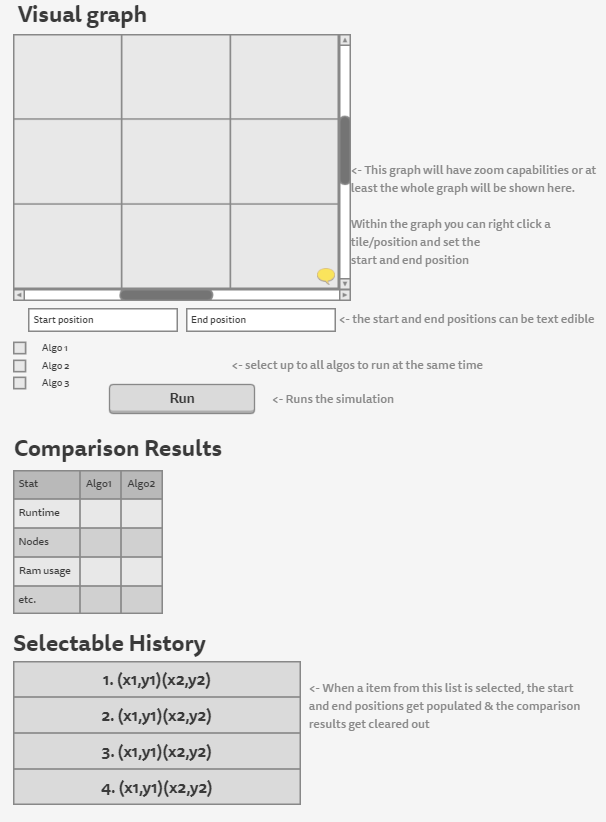
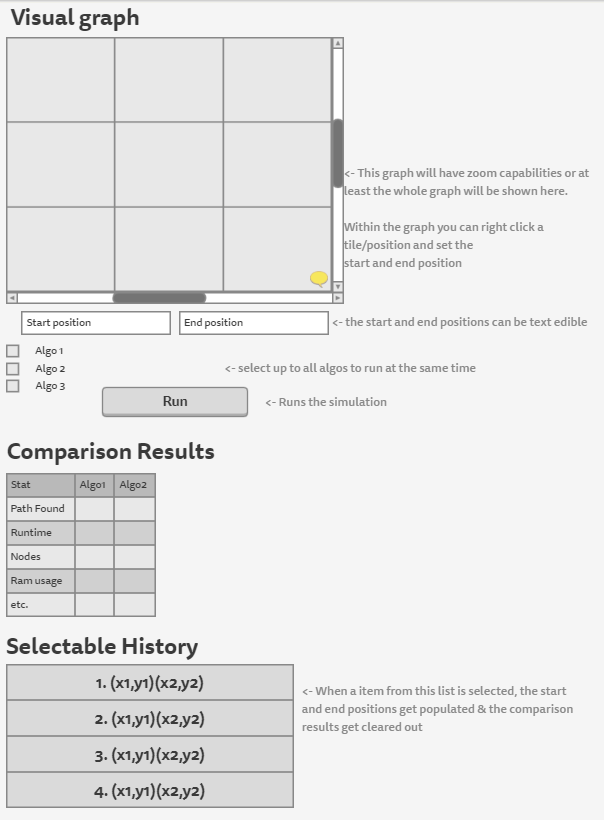
Updating adding sequence diagrams, and mockup graph

Changed region(s): [[0.0, 0.0, 0.9834, 1.0]]

diff --git a/Homeworks/Project/listings-setup.tex b/Homeworks/Project/listings-setup.tex
@@ -1,0 +1,25 @@
+% Contents of listings-setup.tex
+\usepackage{xcolor}
+
+\lstset{
+    basicstyle=\ttfamily,
+    numbers=left,
+    keywordstyle=\color[rgb]{0.13,0.29,0.53}\bfseries,
+    stringstyle=\color[rgb]{0.31,0.60,0.02},
+    commentstyle=\color[rgb]{0.56,0.35,0.01}\itshape,
+    numberstyle=\footnotesize,
+    stepnumber=1,
+    numbersep=5pt,
+    backgroundcolor=\color[RGB]{248,248,248},
+    showspaces=false,
+    showstringspaces=false,
+    showtabs=false,
+    tabsize=2,
+    captionpos=b,
+    breaklines=true,
+    breakatwhitespace=true,
+    breakautoindent=true,
+    escapeinside={\%*}{*)},
+    linewidth=\textwidth,
+    basewidth=0.5em,
+}

diff --git a/Homeworks/Project/report.md b/Homeworks/Project/report.md
@@ -24,6 +24,7 @@ header-includes: |
 # Functional Specification  
 # Description
 This application will dive into the different types of path finding algorithms games use in order to come up with the generated path when a character or player selects a destination position. This project will have a visual progression of the algorithms so that a human can see how well they preform between each other. I would like to evaluate different situations to find positives and negatives between the algorithms such as best case and worst-case scenarios. Statistic analysis will also be done to evaluate how well they rank between each other.
+
 ## List of things that this program will do
 - Visual graph representing at least 1 or more algorithms running over time
 - A way to view the results between the different algorithm
@@ -35,7 +36,9 @@ This will run on Windows 10 OS using Swing
 • Any game developers who want to consider different options for path finding.
 • Anyone who wants to understand how path finding algorithms work.
 # Application Requirements
+
 ### Functional Requirements
+
 1. **F.R-1**: The system shall generate a path given a start point, and end point, and the selected algorithm
 2. **F.R-2**: The system shall let the user know if a path is not possible to be created
 3. **F.R-3**: The system shall have the ability to clear the current paths 
@@ -46,6 +49,7 @@ This will run on Windows 10 OS using Swing
 8. **F.R-8**: The system shall find worst case scenario for each algorithm given the scenario
 
 ### UI Requirements
+
 1. **UI.R-1**: The UI shall be able to select a starting point and an end point
 2. **UI.R-2**: The UI shall have a button to start the simulation
 3. **UI.R-3**: The UI shall be able to see the algorithms behave over time where a human can visually see
@@ -54,11 +58,13 @@ This will run on Windows 10 OS using Swing
 6. **UI.R-6**: The UI shall have the ability to select which algorithms to use for the simulation
 
 # Use Cases
+
 ### UC-1: User selects a  path
 1. The user selects the start and end points and uses default algorithm
 2. The system computes the path generation
 3. The system displays a successful path
 ### UC-2: User selects a path
+
 #### Variation #1:  Invalid path
 1. After step 2 , the system displays the path could not be found 
 
@@ -69,6 +75,7 @@ This will run on Windows 10 OS using Swing
 4. The system displays a successful path
 
 ### UC-4: Computer generates path 
+
 #### Variation #1: Invalid path
 1. After step 2, the system displays that the path could not be found
 
@@ -95,7 +102,9 @@ This will run on Windows 10 OS using Swing
 Link: https://gomockingbird.com/projects/v95sylo/4gXVnC
 
 # Design Specification 
+
 ## CRC cards
+
 ### Tile
 - Responsibilities
 	- Coordinate on a map that is used to represent a node or a position
@@ -107,21 +116,12 @@ Link: https://gomockingbird.com/projects/v95sylo/4gXVnC
 - Collaborators
 	- Tile
 	- Algorithm
-	- AlgorithmAnalyzer
+	- AlgorithmController
 ### Algorithm 
 - Responsibilities
 	- Steps to find a path between a departure and destination position
 - Collaborators
-	- AlgorithmAnalyzer
-	- Path
-### AlgorithmAnalyzer
-- Responsibilities
-	- Simulator that runs the algorithms and collects the comparative results
-	- Keeps track of the tiles visited while going through the algorithm
-	- Keeps track of optimized path for each algorithm 
-	
-- Collaborators
-	- Algorithm
+	- AlgorithmController
 	- Path
 ### Grid 
 - Responsibilities
@@ -139,21 +139,32 @@ Link: https://gomockingbird.com/projects/v95sylo/4gXVnC
 - Collaborators
 	- Grid
 
+### AlgorithmController
+- Responsibilities
+	- Keeping track which algorithms are selected
+	- Running the simulations
+	- Keeps track of past history of the departure and destination tiles
+	- Simulator that runs the algorithms and collects the comparative results
+	- Keeps track of the tiles visited while going through the algorithm
+	- Keeps track of optimized path for each algorithm 
+- Collaborators
+	- GUI
+	- Grid
+	- Algorithm
 ### GUI 
+
 - Responsibilities
 	- Displaying the grid
 	- Displaying the start and end positions
 	- Selectable algorithms
-	- Running the simulations
 	- Displaying the comparison results of the different algorithms
-	- Selectable history of past start and end positions
-	- Keeps track of past history of the departure and destination tiles
+	- Selectable history of past start and end positions	
 - Collaborators
-	- Grid
-	- AlgorithmAnalyzer
-	- Algorithm
+	- AlgorithmController
 ## UML Diagrams
+
 ### Class diagram key
+
 ```mermaid
 classDiagram
 classA --|> classB : Inheritance
@@ -166,6 +177,7 @@ classM ..|> classN : Realization
 classO .. classP : Link(Dashed)
 ```
 ### Class diagrams
+
 ```mermaid
 classDiagram
 
@@ -179,17 +191,21 @@ Path: +getDeparture(): Tile
 Path: +getDestination(): Tile
 
 class Algorithm
+Algorithm: +name: String
+Algorithm: +visitedTiles: ArrayList<Tile>
 Algorithm: +computeOptimalPath(start: Tile, end: Tile): Path
-Algorithm: +getVisitedTiles(start: Tile, end: Tile): Path
-
-class AlgorithmAnalyzer
-AlgorithmAnalyzer: +algorithms: ArrayList<Algorithm>
-
-AlgorithmAnalyzer: +runSimulation(test:String)
+Algorithm: +getVisitedTiles(): ArrayList<Tile>
 
 
 class Color
 Color: +rgb: Int
+
+class AlgorithmStats
+AlgorithmStats: +algorithmName: String
+AlgorithmStats: +runtime: Long
+AlgorithmStats: +ramUsage: Long
+AlgorithmStats: +pathLength: Int
+AlgorithmStats: +visitedTiles: Int
 
 class GridTile
 GridTile: +color: Color
@@ -198,31 +214,156 @@ GridTile: +collisionFlag: Int
 
 class Grid
 Grid: +tiles: ArrayList<GridTile>
-
-Grid: +colorTile(tile: Tile, color: Color)
+Grid: +updateGrid(tiles: ArrayList<GridTile>)
+Grid: -colorTile(tile: Tile, color: Color)
 Grid: +clearGraph()
 
+class AlgorithmController
+AlgorithmController: +startPosition: Tile
+AlgorithmController: +endPosition: Tile
+AlgorithmController: +history: ArrayList<Tile[]>
+AlgorithmController: +enabledAlgorithms: ArrayList<Boolean>
+AlgorithmController: +gridData: Grid
+AlgorithmController: +latestAlgorithmStats: ArrayList<AlgorithmStats>
+AlgorithmController: +algorithms: ArrayList<Algorithm>
+AlgorithmController: +runSimulation(test:String)
+
+AlgorithmController: +setStartPosition(tile: Tile)
+AlgorithmController: +endStartPosition(tile: Tile)
 
 class GUI
-GUI: +history: ArrayList<Tile[]>
-GUI: +enabledAlgorithms: ArrayList<Boolean>
+GUI: +updateStartPosition(tile: Tile)
+GUI: +updateEndPosition(tile: Tile)
+GUI: +updateHistory(history: ArrayList<Tile[]>)
 GUI: +enableAlgorithm(algorithm: String)
+GUI: +refreshGrid(grid:Grid)
+GUI: +updateAlgoStats(stats: ArrayList<AlgorithmStats>)
 
-GUI *-- "1..1" Grid
+AlgorithmController *-- "1..1" Grid
 Grid *-- "1..*" GridTile
 GridTile --|> Tile : Inhertance
 GridTile o-- "1.1" Color
 
  
-AlgorithmAnalyzer *-- "1.*" Algorithm
+AlgorithmController *-- "1.*" Algorithm
 Algorithm ..> Path
 Path o-- "2..*" Tile
-GUI ..> AlgorithmAnalyzer
-
+AlgorithmController ..> GUI
+AlgorithmController *-- "1.*" AlgorithmStats
 ```
+
 ### Sequence Diagrams
 
+#### Path found
+```mermaid
+sequenceDiagram
+participant User
+participant GUI
+participant AlgorithmController
+participant Algorithm
+
+Note over User: Enter start position
+activate User
+User  ->>+ AlgorithmController : setStartPosition
+activate GUI
+AlgorithmController ->>- GUI : updateStartPosition
+
+Note over User: Enter end position
+deactivate GUI
+
+User ->>+ AlgorithmController : setEndPosition
+activate GUI
+AlgorithmController ->>- GUI : updateEndPosition
+
+Note over User: Click run button
+deactivate GUI
+User ->>+ AlgorithmController : runSimulationrect 
+AlgorithmController ->> Algorithm  : computeOptimalPath
+activate Algorithm
+deactivate Algorithm
+AlgorithmController ->> Algorithm  : getVisitedTiles
+activate Algorithm
+deactivate Algorithm
+AlgorithmController ->> Grid : updateGrid
+activate Grid
+deactivate Grid
+AlgorithmController ->> GUI : refreshGrid
+activate GUI
+deactivate GUI
+AlgorithmController ->>- GUI : updateAlgoStats
+activate GUI
+deactivate GUI
+Note over User: The stats will now be visible to see if path was found
+deactivate User
+
+```
+
+#### Computer generated path found
+
+#### Selecting different Algorithm
+```mermaid
+sequenceDiagram
+participant User
+participant GUI
+participant AlgorithmController
+participant Algorithm
+
+Note over User: selects a new algorithm
+activate User
+User  ->>+ AlgorithmController : setStartPosition
+activate GUI
+AlgorithmController ->>- GUI : updateStartPosition
+
+deactivate User
+
+```
+#### Compare algorithms
+```mermaid
+sequenceDiagram
+participant User
+participant GUI
+participant AlgorithmController
+participant Algorithm
+
+Note over User: Enter start position
+activate User
+User  ->>+ AlgorithmController : setStartPosition
+activate GUI
+AlgorithmController ->>- GUI : updateStartPosition
+
+Note over User: Enter end position
+deactivate GUI
+
+User ->>+ AlgorithmController : setEndPosition
+activate GUI
+AlgorithmController ->>- GUI : updateEndPosition
+
+Note over User: Click run button
+deactivate GUI
+User ->>+ AlgorithmController : runSimulationrect 
+AlgorithmController ->> Algorithm  : computeOptimalPath
+activate Algorithm
+deactivate Algorithm
+AlgorithmController ->> Algorithm  : getVisitedTiles
+activate Algorithm
+deactivate Algorithm
+AlgorithmController ->> Grid : updateGrid
+activate Grid
+deactivate Grid
+AlgorithmController ->> GUI : refreshGrid
+activate GUI
+deactivate GUI
+AlgorithmController ->>- GUI : updateAlgoStats
+activate GUI
+deactivate GUI
+Note over User: The stats will now be visible
+Note over User: Table will show comparisons between algorithms 
+deactivate User
+
+```
+
 ### State Diagrams
+
 # Glossary
 
 - Path Algorithm - A set of instructions to iterate over the points to find a way from point A to point B
@@ -232,3 +373,4 @@ GUI ..> AlgorithmAnalyzer
 - Path - a group of nodes,tiles,points that make up an array of elements used describe how to get from point A to point B
 - Results - a comparison between multiple algorithms
 - History - A list of start and end points that were chosen by the user or generated by the computer
+
